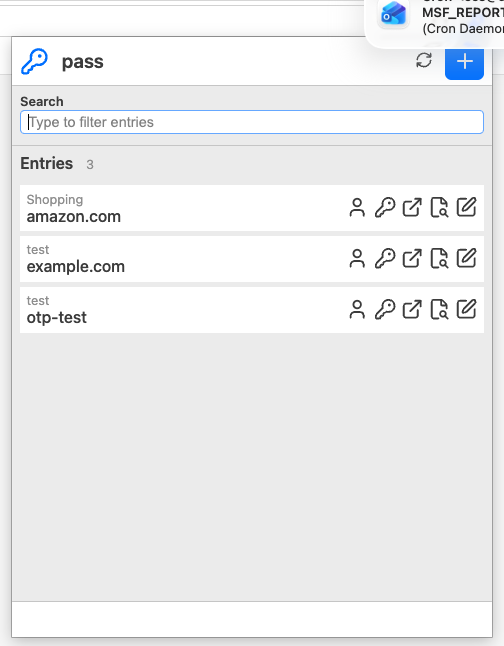
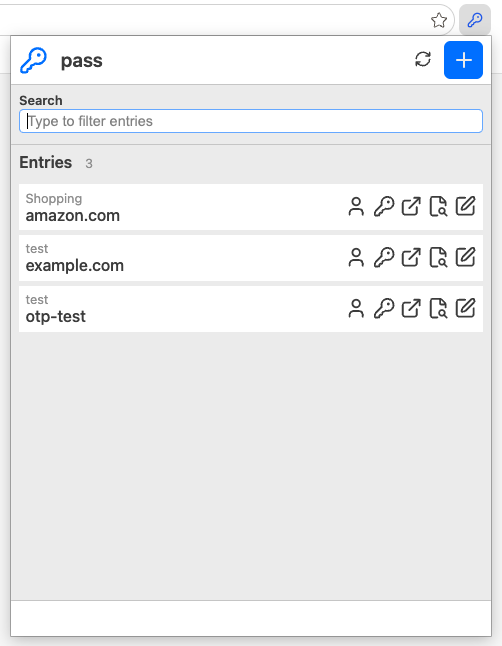
update README

diff --git a/README.md b/README.md
@@ -185,7 +185,7 @@ The extension will:
 
 ### Syncing with Git
 
-Click the **sync icon** (🔄) in the extension to pull and push changes to your git remote.
+Click the **sync icon** in the extension to pull and push changes to your git remote.
 
 ## URL Matching
 
@@ -355,27 +355,14 @@ After changing the Python script:
 
 ## Security
 
-- ✅ Extension runs in browser sandbox
-- ✅ No network access required
-- ✅ No telemetry or tracking
-- ✅ Native messaging is restricted to specific extension ID
-- ✅ All password operations go through native `pass` executable
-- ✅ GPG encryption handled by `pass`
+- Extension runs in browser sandbox
+- No network access required
+- No telemetry or tracking
+- Native messaging is restricted to specific extension ID
+- All password operations go through native `pass` executable
+- GPG encryption handled by `pass`
 
 **Note:** The extension requires `nativeMessaging` permission to communicate with the Python host, which in turn executes `pass` commands.
-
-## Comparison to pass-safari
-
-| Feature | pass-safari | pass-browser |
-|---------|-------------|--------------|
-| Platform | macOS only | macOS, Linux, Windows |
-| Browser | Safari | Chrome, Edge, Chromium |
-| Backend | Swift + macOS App | Python script |
-| Installation | Xcode build | Simple script |
-| URL Cache | File-based | File-based |
-| OTP Support | ✅ | ✅ |
-| Autofill | ✅ | ✅ |
-| Git Sync | ✅ | ✅ |
 
 ## License
 
@@ -384,7 +371,7 @@ MIT — see [LICENSE](../LICENSE).
 ## Credits
 
 - Built for [pass](https://www.passwordstore.org/) by Jason A. Donenfeld
-- Password generator based on work by Dania Usman
+- [Password generator](https://github.com/daniausman24-bot/password-generator) by Dania Usman 
 
 
 ## Firefox Support
